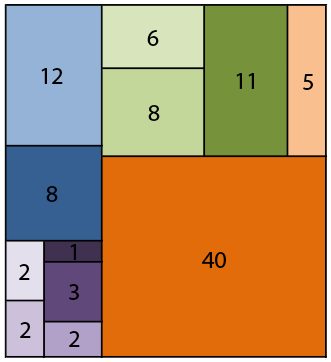
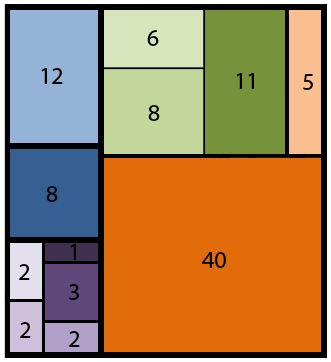
SquarifiedTreemaps.png verbessert

Changed region(s): [[0.0, 0.0, 0.997, 1.0]]

diff --git a/Übung 4/4-Hausaufgabe.tex b/Übung 4/4-Hausaufgabe.tex
@@ -50,7 +50,21 @@
 \section{Aufgabe 4.1 | Treemaps}
 \subsection*{Slice-And-Dice}
 
+\begin{figure}[ht]
+    \centering
+    \includegraphics[height=10cm]{includes/SliceAndDice}
+    \caption{Treemap - Slice-And-Dice-Algorithmus}
+    \label{fig:sliceAndDice}
+\end{figure}
+
 \subsection*{Squarified Treemaps}
+
+\begin{figure}[ht]
+    \centering
+    \includegraphics[height=10cm]{includes/SquarifiedTreemaps}
+    \caption{Squarified Treemap}
+    \label{fig:squarifiedTreemap}
+\end{figure}
 
 \subsection*{Vergleich}
 
